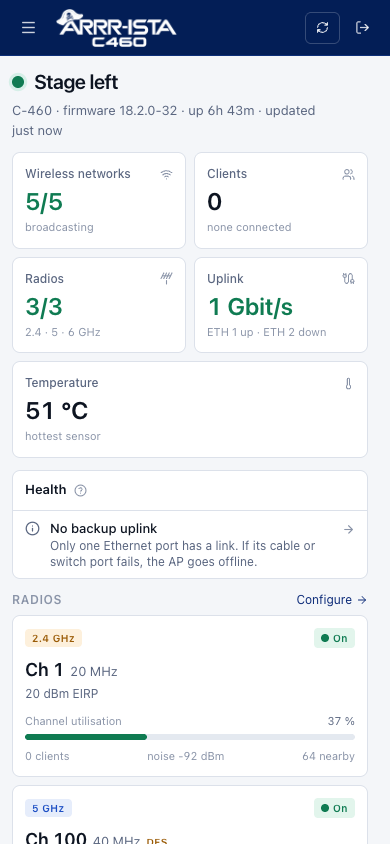
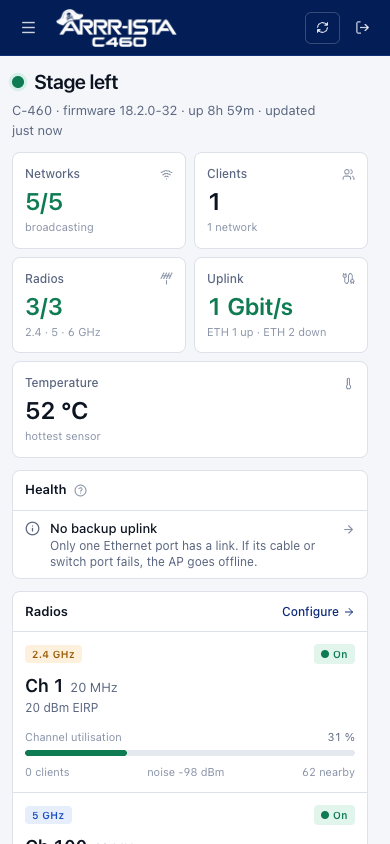
Polish layout: aligned columns, balanced panels, consistent spacing
- Same page padding everywhere and a fixed label column in key/value lists.
- Overview: radios as one panel, balanced columns, full-width network list
  with aligned columns; health first on narrow screens.
- Network: SNMP and Prometheus combined into one Monitoring panel.
- System: device panels left, names and accounts right.
- Ethernet cards stack on phones; refreshed README screenshots.

diff --git a/web/src/pages/Overview.tsx b/web/src/pages/Overview.tsx
@@ -11,6 +11,15 @@ import { formatDuration, isDfs, opModeShort, plural } from '@/utils/format'
 import { HealthPanel, healthTone } from '@/components/Health'
 import { TrendsPanel } from '@/components/Trends'
 
+/** Small link in a panel header, the same everywhere. */
+function PanelLink({ to, children }: { to: string; children: string }) {
+  return (
+    <Link to={to} className="flex items-center gap-1 text-[12px] font-medium text-accent-text hover:underline">
+      {children} <ArrowRight size={12} />
+    </Link>
+  )
+}
+
 export function OverviewPage() {
   const state = useApp((store) => store.state)
   if (!state) return <LoadingState />
@@ -39,7 +48,7 @@ export function OverviewPage() {
       dense
     >
       <div className="grid grid-cols-2 gap-2 sm:grid-cols-3 lg:grid-cols-5">
-        <Stat label="Wireless networks" value={`${activeSsids.length}/${ssids.length}`} detail="broadcasting" tone={activeSsids.length ? 'ok' : 'warn'} icon={<Wifi size={13} />} />
+        <Stat label="Networks" value={`${activeSsids.length}/${ssids.length}`} detail="broadcasting" tone={activeSsids.length ? 'ok' : 'warn'} icon={<Wifi size={13} />} />
         <Stat label="Clients" value={clients.length} detail={clients.length ? `${plural(new Set(clients.map((c) => c.ssid)).size, 'network')}` : 'none connected'} icon={<Users size={13} />} />
         <Stat label="Radios" value={`${activeRadios.length}/${radios.length}`} detail={activeRadios.map((radio) => `${radio.band}`).join(' · ') + ' GHz'} tone={activeRadios.length === radios.length ? 'ok' : 'warn'} icon={<Antenna size={13} />} />
         <Stat
@@ -64,17 +73,11 @@ export function OverviewPage() {
         <HealthPanel items={state.health ?? []} />
       </div>
       <div className="mt-3 grid gap-3 xl:grid-cols-[1.4fr_1fr]">
-        <section className="min-w-0 space-y-3">
-          <div>
-            <div className="mb-1.5 flex items-center justify-between">
-              <h3 className="text-[12px] font-semibold uppercase tracking-wider text-faint">Radios</h3>
-              <Link to="/radios" className="flex items-center gap-1 text-[12px] text-accent-text hover:underline">
-                Configure <ArrowRight size={12} />
-              </Link>
-            </div>
-            <div className="grid gap-2 md:grid-cols-3">
+        <section className="flex min-w-0 flex-col gap-3">
+          <Panel title="Radios" bodyClassName="p-0" actions={<PanelLink to="/radios">Configure</PanelLink>}>
+            <div className="grid divide-y divide-line md:grid-cols-3 md:divide-x md:divide-y-0">
               {radios.map((radio) => (
-                <div key={radio.id} className="rounded-lg border border-line bg-surface p-3">
+                <div key={radio.id} className="min-w-0 p-3">
                   <div className="flex items-center justify-between gap-2">
                     <BandChip band={radio.band} />
                     <Badge tone={radio.enabled ? 'ok' : 'neutral'}>
@@ -82,7 +85,7 @@ export function OverviewPage() {
                       {radio.enabled ? 'On' : 'Off'}
                     </Badge>
                   </div>
-                  <p className="tabular mt-2 text-lg font-semibold text-ink">
+                  <p className="tabular mt-2.5 text-lg font-semibold leading-6 text-ink">
                     Ch {radio.channel}
                     <span className="ml-1.5 text-[13px] font-normal text-muted">{radio.width} MHz</span>
                     {isDfs(radio.band, radio.channel) && <span className="ml-1.5 text-2xs font-semibold text-warn">DFS</span>}
@@ -91,10 +94,10 @@ export function OverviewPage() {
                     {radio.eirp ?? '—'} dBm EIRP
                     {radio.dca && ' · auto channel'}
                   </p>
-                  <div className="mt-2.5">
+                  <div className="mt-3">
                     <Meter value={radio.utilization} label="Channel utilisation" />
                   </div>
-                  <div className="tabular mt-2 flex justify-between text-[11px] text-faint">
+                  <div className="tabular mt-2 flex justify-between gap-2 text-[11px] text-faint">
                     <span>{plural(radio.clients, 'client')}</span>
                     <span>noise {radio.noiseFloor ?? '—'} dBm</span>
                     <span>{radio.neighbors} nearby</span>
@@ -102,57 +105,16 @@ export function OverviewPage() {
                 </div>
               ))}
             </div>
-          </div>
+          </Panel>
 
           <TrendsPanel />
-
-          <Panel
-            title={`Wireless networks (${ssids.length})`}
-            bodyClassName="p-0"
-            actions={
-              <Link to="/wireless" className="text-[12px] text-accent-text hover:underline">
-                Manage
-              </Link>
-            }
-          >
-            {ssids.length === 0 ? (
-              <EmptyState icon={<Wifi size={24} />} title="No wireless networks" description="Create one under Wireless networks." />
-            ) : (
-              <ul className="divide-y divide-line">
-                {ssids.map((ssid) => (
-                  <li key={ssid.name} className="flex flex-wrap items-center gap-x-3 gap-y-1 px-3 py-2">
-                    <Dot tone={ssid.enabled ? 'ok' : 'neutral'} />
-                    <span className="min-w-0 flex-1 basis-[9rem] truncate text-[13px] font-medium text-ink">
-                      {ssid.name}
-                      {ssid.hidden && <span className="ml-1.5 text-2xs font-normal text-faint">hidden</span>}
-                    </span>
-                    <VlanChip vlan={ssid.vlan} />
-                    <span className="hidden text-[12px] text-muted sm:inline">{opModeShort(ssid.opmode)}</span>
-                    <span className="flex gap-1">
-                      {ssid.bands.map((band) => (
-                        <BandChip key={band} band={band} />
-                      ))}
-                    </span>
-                    <span className="tabular w-16 text-right text-[12px] text-muted">{plural(ssid.clients, 'client')}</span>
-                  </li>
-                ))}
-              </ul>
-            )}
-          </Panel>
         </section>
 
-        <div className="min-w-0 space-y-3">
+        <div className="flex min-w-0 flex-col gap-3">
           <div className="hidden xl:block">
             <HealthPanel items={state.health ?? []} />
           </div>
-          <Panel
-            title="Access point"
-            actions={
-              <Link to="/system" className="text-[12px] text-accent-text hover:underline">
-                Details
-              </Link>
-            }
-          >
+          <Panel title="Access point" actions={<PanelLink to="/system">Details</PanelLink>}>
             <KeyValue
               items={[
                 { label: 'Management IP', value: device.mgmtIp ? `${device.mgmtIp}/${device.mgmtPrefix}` : '—', mono: true },
@@ -166,18 +128,52 @@ export function OverviewPage() {
               <Meter value={storageUsed} label="Flash" warnAt={75} dangerAt={90} />
             </div>
           </Panel>
-          <Panel
-            title="Ethernet"
-            actions={
-              <Link to="/network" className="text-[12px] text-accent-text hover:underline">
-                Network
-              </Link>
-            }
-          >
+          <Panel title="Ethernet" actions={<PanelLink to="/network">Network</PanelLink>}>
             <PortCards interfaces={interfaces} compact />
           </Panel>
         </div>
       </div>
+
+      <Panel title={`Wireless networks (${ssids.length})`} className="mt-3" bodyClassName="p-0" actions={<PanelLink to="/wireless">Manage</PanelLink>}>
+        {ssids.length === 0 ? (
+          <EmptyState icon={<Wifi size={24} />} title="No wireless networks" description="Create one under Wireless networks." />
+        ) : (
+          <>
+            {/* Fixed columns on wider screens, so chips line up from row to row. */}
+            <div className="hidden gap-x-4 border-b border-line px-3 py-1.5 text-2xs font-semibold uppercase tracking-wider text-faint sm:grid sm:grid-cols-[0.5rem_minmax(0,1fr)_8rem_10rem_5rem] xl:grid-cols-[0.5rem_minmax(0,1fr)_9rem_11rem_10rem_5rem]">
+              <span />
+              <span>Network</span>
+              <span>VLAN</span>
+              <span className="hidden xl:block">Security</span>
+              <span>Bands</span>
+              <span className="text-right">Clients</span>
+            </div>
+            <ul className="divide-y divide-line">
+              {ssids.map((ssid) => (
+                <li key={ssid.name} className="flex flex-wrap items-center gap-x-3 gap-y-1 px-3 py-2 sm:grid sm:grid-cols-[0.5rem_minmax(0,1fr)_8rem_10rem_5rem] sm:gap-x-4 xl:grid-cols-[0.5rem_minmax(0,1fr)_9rem_11rem_10rem_5rem]">
+                  <Dot tone={ssid.enabled ? 'ok' : 'neutral'} />
+                  <span className="min-w-0 flex-1 basis-[9rem] truncate text-[13px] font-medium text-ink">
+                    {ssid.name}
+                    {ssid.hidden && <span className="ml-1.5 text-2xs font-normal text-faint">hidden</span>}
+                  </span>
+                  <span className="flex min-w-0 items-center justify-self-start">
+                    <VlanChip vlan={ssid.vlan} className="max-w-full truncate" />
+                  </span>
+                  <span className="hidden truncate text-[12px] text-muted xl:block" title={opModeShort(ssid.opmode)}>
+                    {opModeShort(ssid.opmode)}
+                  </span>
+                  <span className="flex items-center gap-1">
+                    {ssid.bands.map((band) => (
+                      <BandChip key={band} band={band} />
+                    ))}
+                  </span>
+                  <span className="tabular ml-auto text-right text-[12px] text-muted sm:ml-0">{plural(ssid.clients, 'client')}</span>
+                </li>
+              ))}
+            </ul>
+          </>
+        )}
+      </Panel>
     </Page>
   )
 }

diff --git a/web/src/components/MetricsSettings.tsx b/web/src/components/MetricsSettings.tsx
@@ -3,7 +3,7 @@ import { Copy, Eye, EyeOff, KeyRound } from 'lucide-react'
 import { api } from '@/api'
 import { useApp } from '@/stores/app'
 import type { MetricsSettings } from '@/types'
-import { Badge, Button, IconButton, KeyValue, Panel, Spinner, Toggle } from '@/ui/kit'
+import { Badge, Button, IconButton, KeyValue, Panel, SubSection, Spinner } from '@/ui/kit'
 
 function copy(text: string, toast: (t: string) => void) {
   void navigator.clipboard?.writeText(text).then(
@@ -13,7 +13,9 @@ function copy(text: string, toast: (t: string) => void) {
 }
 
 /** Prometheus scrape endpoint, protected by a bearer token. */
-export function MetricsPanel() {
+/** With `bare`, renders as a section of a shared Monitoring panel. */
+export function MetricsPanel({ bare = false }: { bare?: boolean }) {
+  const Box = bare ? SubSection : Panel
   const toast = useApp((s) => s.toast)
   const ip = useApp((s) => s.state?.device.mgmtIp)
   const isAdmin = useApp((s) => s.role === 'admin')
@@ -47,9 +49,17 @@ export function MetricsPanel() {
     : ''
 
   return (
-    <Panel
-      title="Monitoring · Prometheus"
+    <Box
+      title={bare ? 'Prometheus' : 'Monitoring · Prometheus'}
       help="Exposes clients, radios, Ethernet counters, temperature and health findings in Prometheus format at /metrics. Scrapers must send the token as a bearer token. Off by default."
+      actions={
+        m && (
+          <Button size="sm" write disabled={busy} onClick={() => void update(!m.enabled, false)}>
+            {busy && <Spinner size={12} />}
+            {m.enabled ? 'Turn off' : 'Turn on'}
+          </Button>
+        )
+      }
     >
       {error ? (
         <p role="alert" className="text-[12px] text-danger">
@@ -59,17 +69,11 @@ export function MetricsPanel() {
         <p className="text-[12px] text-muted">Reading metrics settings…</p>
       ) : (
         <>
-          <div className="flex items-center gap-2">
-            <div className="min-w-0 flex-1">
-              <Toggle checked={m.enabled} onChange={(v) => isAdmin && !busy && void update(v, false)} label="Metrics endpoint" />
-            </div>
-            {busy && <Spinner size={12} />}
-            <Badge tone={m.enabled ? 'ok' : 'neutral'}>{m.enabled ? 'On' : 'Off'}</Badge>
-          </div>
+          <KeyValue items={[{ label: 'Status', value: <Badge tone={m.enabled ? 'ok' : 'neutral'}>{m.enabled ? 'On' : 'Off'}</Badge> }]} />
           {m.enabled && (
             <>
               <KeyValue
-                className="mt-2"
+                className="mt-1.5"
                 items={[
                   { label: 'Endpoint', value: url, mono: true },
                   {
@@ -105,6 +109,6 @@ export function MetricsPanel() {
           )}
         </>
       )}
-    </Panel>
+    </Box>
   )
 }

diff --git a/web/src/ui/kit.tsx b/web/src/ui/kit.tsx
@@ -192,6 +192,22 @@ export function Segmented<T extends string | number>({
 
 /* ----------------------------------------------------------------- surface */
 
+/** A titled block inside a panel, for panels that group several topics. */
+export function SubSection({ title, help, actions, children, className }: { title: ReactNode; help?: ReactNode; actions?: ReactNode; children: ReactNode; className?: string }) {
+  return (
+    <div className={cn('min-w-0', className)}>
+      <div className="mb-2 flex min-h-7 items-center justify-between gap-2">
+        <div className="flex min-w-0 items-center gap-1.5">
+          <h3 className="truncate text-2xs font-semibold uppercase tracking-wider text-faint">{title}</h3>
+          {help && <HelpTip label={typeof title === 'string' ? title : 'Help'}>{help}</HelpTip>}
+        </div>
+        {actions && <div className="flex shrink-0 items-center gap-1.5">{actions}</div>}
+      </div>
+      {children}
+    </div>
+  )
+}
+
 export function Panel({
   title,
   help,
@@ -259,10 +275,13 @@ export function EmptyState({ icon, title, description, action }: { icon?: ReactN
 /** Key/value rows used in inspectors and detail pages. */
 export function KeyValue({ items, className }: { items: { label: string; value: ReactNode; mono?: boolean }[]; className?: string }) {
   return (
-    <dl className={cn('grid grid-cols-[minmax(80px,auto)_1fr] gap-x-3 gap-y-1 text-[12px]', className)}>
+    // A fixed label column keeps values aligned across neighbouring panels.
+    <dl className={cn('grid grid-cols-[8.5rem_minmax(0,1fr)] gap-x-3 gap-y-1.5 text-[12px] leading-[18px] sm:grid-cols-[9.5rem_minmax(0,1fr)]', className)}>
       {items.map((item) => (
         <div key={item.label} className="contents">
-          <dt className="truncate text-faint">{item.label}</dt>
+          <dt className="truncate text-faint" title={item.label}>
+            {item.label}
+          </dt>
           <dd className={cn('min-w-0 break-words text-ink', item.mono && 'mono')}>{item.value ?? '—'}</dd>
         </div>
       ))}

diff --git a/web/src/components/SnmpSettings.tsx b/web/src/components/SnmpSettings.tsx
@@ -3,9 +3,11 @@ import { Pencil, Save } from 'lucide-react'
 import { api } from '@/api'
 import { useApp } from '@/stores/app'
 import type { SnmpSettings, SnmpStatus } from '@/types'
-import { Badge, Button, Dialog, DialogActions, Field, Input, KeyValue, Panel, Spinner, Toggle } from '@/ui/kit'
+import { Badge, Button, Dialog, DialogActions, Field, Input, KeyValue, Panel, SubSection, Spinner, Toggle } from '@/ui/kit'
 
-export function SnmpPanel() {
+/** With `bare`, renders as a section of a shared Monitoring panel. */
+export function SnmpPanel({ bare = false }: { bare?: boolean }) {
+  const Box = bare ? SubSection : Panel
   const [status, setStatus] = useState<SnmpStatus | null>(null)
   const [error, setError] = useState('')
   const [editing, setEditing] = useState(false)
@@ -19,8 +21,8 @@ export function SnmpPanel() {
   }, [])
 
   return (
-    <Panel
-      title="Monitoring · SNMP"
+    <Box
+      title={bare ? 'SNMP' : 'Monitoring · SNMP'}
       help="Lets network monitors poll this AP like a switch: name, uptime, location and both Ethernet ports with traffic counters (MIB-II system, ifTable and ifXTable). Read-only over SNMP v1 and v2c on UDP port 161; nothing can be changed through SNMP."
       actions={
         <Button size="sm" write disabled={!status} onClick={() => setEditing(true)}>
@@ -39,7 +41,7 @@ export function SnmpPanel() {
           <KeyValue
             items={[
               {
-                label: 'Agent',
+                label: 'Status',
                 value: status.enabled ? (
                   <Badge tone={status.running ? 'ok' : 'danger'}>{status.running ? 'Running, read-only' : 'Not running'}</Badge>
                 ) : (
@@ -73,7 +75,7 @@ export function SnmpPanel() {
           }}
         />
       )}
-    </Panel>
+    </Box>
   )
 }
 

diff --git a/web/src/pages/System.tsx b/web/src/pages/System.tsx
@@ -73,15 +73,16 @@ export function SystemPage() {
       </Panel>
 
       <div className="mt-3 grid gap-3 lg:grid-cols-2">
+        {/* Left: the device itself. Right: names, logins and the interface. */}
         <div className="space-y-3">
           <MaintenancePanel state={state} />
           <BackupPanel />
-          {isAdmin && <PasswordPanel />}
-          <ViewerPanel />
+          <RefreshPanel />
         </div>
         <div className="space-y-3">
           <DisplaySettingsPanel state={state} />
-          <RefreshPanel />
+          {isAdmin && <PasswordPanel />}
+          <ViewerPanel />
           <Panel title="About">
             <p className="text-[12px] leading-5 text-muted">
               ARRR-ISTA C460 web interface <span className="mono text-ink">{device.uiVersion}</span>. Runs on the access point and manages it through the AP’s own

diff --git a/web/src/app/Page.tsx b/web/src/app/Page.tsx
@@ -4,7 +4,8 @@ import { cn } from '@/ui/cn'
 /** Standard scrolling page: heading, description, actions, then content. */
 export function Page({ title, description, actions, children, width = 'wide', dense }: { title: ReactNode; description?: ReactNode; actions?: ReactNode; children: ReactNode; width?: 'wide' | 'narrow' | 'full'; dense?: boolean }) {
   return (
-    <div className={cn('p-3 sm:p-4', dense ? 'lg:p-4' : 'lg:p-6')}>
+    // Same padding on every page, so content edges line up when switching pages.
+    <div className="p-3 sm:p-4 lg:p-6">
       <div className={cn('mx-auto', width === 'wide' ? 'max-w-[1500px]' : width === 'narrow' ? 'max-w-3xl' : '')}>
         <header className={cn('flex flex-col justify-between gap-3 sm:flex-row sm:items-start', dense ? 'mb-3' : 'mb-4 lg:mb-5')}>
           <div className="min-w-0">

diff --git a/web/src/pages/Network.tsx b/web/src/pages/Network.tsx
@@ -19,8 +19,14 @@ export function NetworkPage() {
         <div className="space-y-3">
           <ManagementPanel state={state} />
           <TimePanel />
-          <SnmpPanel />
-          <MetricsPanel />
+          <Panel title="Monitoring" help="Let network monitors poll this AP: SNMP like your switches, or Prometheus. Both are read-only and off by default." bodyClassName="divide-y divide-line px-3">
+            <div className="py-3">
+              <SnmpPanel bare />
+            </div>
+            <div className="py-3">
+              <MetricsPanel bare />
+            </div>
+          </Panel>
         </div>
         <div className="space-y-3">
           <Panel

diff --git a/web/src/components/Ports.tsx b/web/src/components/Ports.tsx
@@ -23,7 +23,7 @@ function Socket({ up }: { up: boolean }) {
 /** The two Ethernet sockets with link state, uplink role and traffic. */
 export function PortCards({ interfaces, compact }: { interfaces: Interface[]; compact?: boolean }) {
   return (
-    <div className={cn('grid gap-2', compact ? 'grid-cols-2' : 'sm:grid-cols-2')}>
+    <div className="grid gap-2 sm:grid-cols-2">
       {interfaces.map((iface) => (
         <div key={iface.name} className={cn('rounded-lg border p-3', iface.up ? 'border-line bg-surface' : 'border-dashed border-line bg-surface-2')}>
           <div className="flex items-start gap-3">
